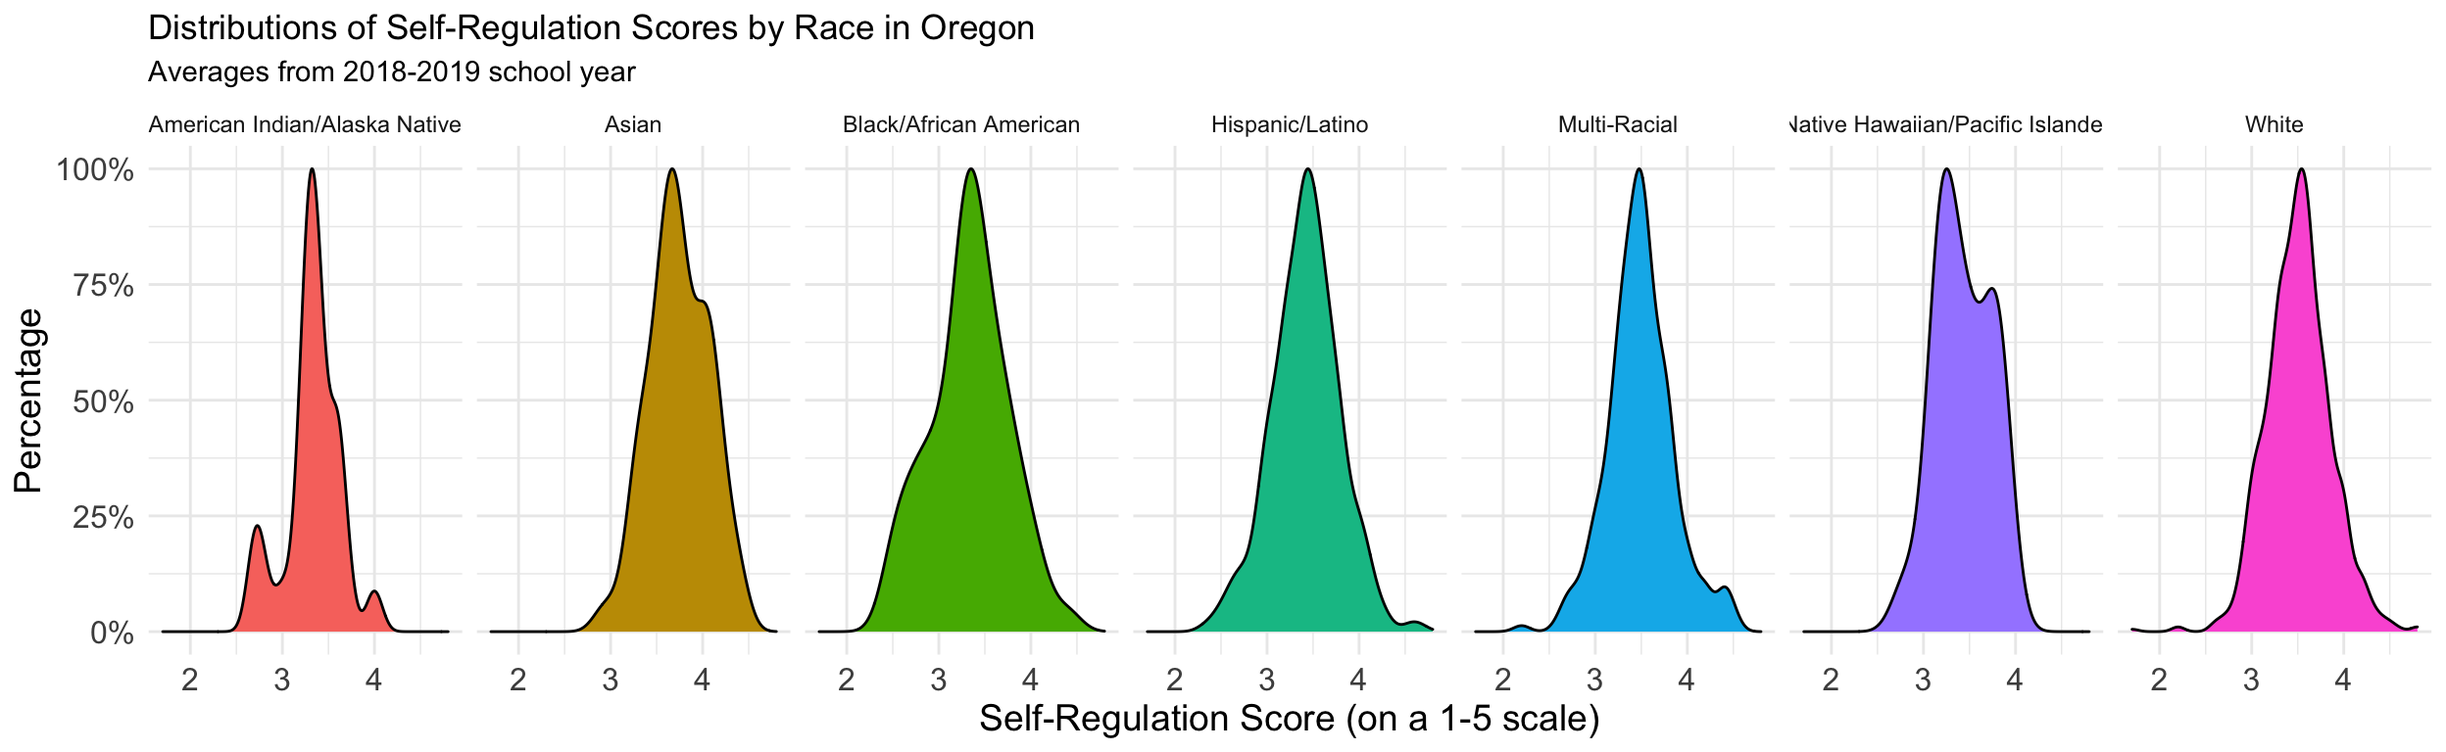
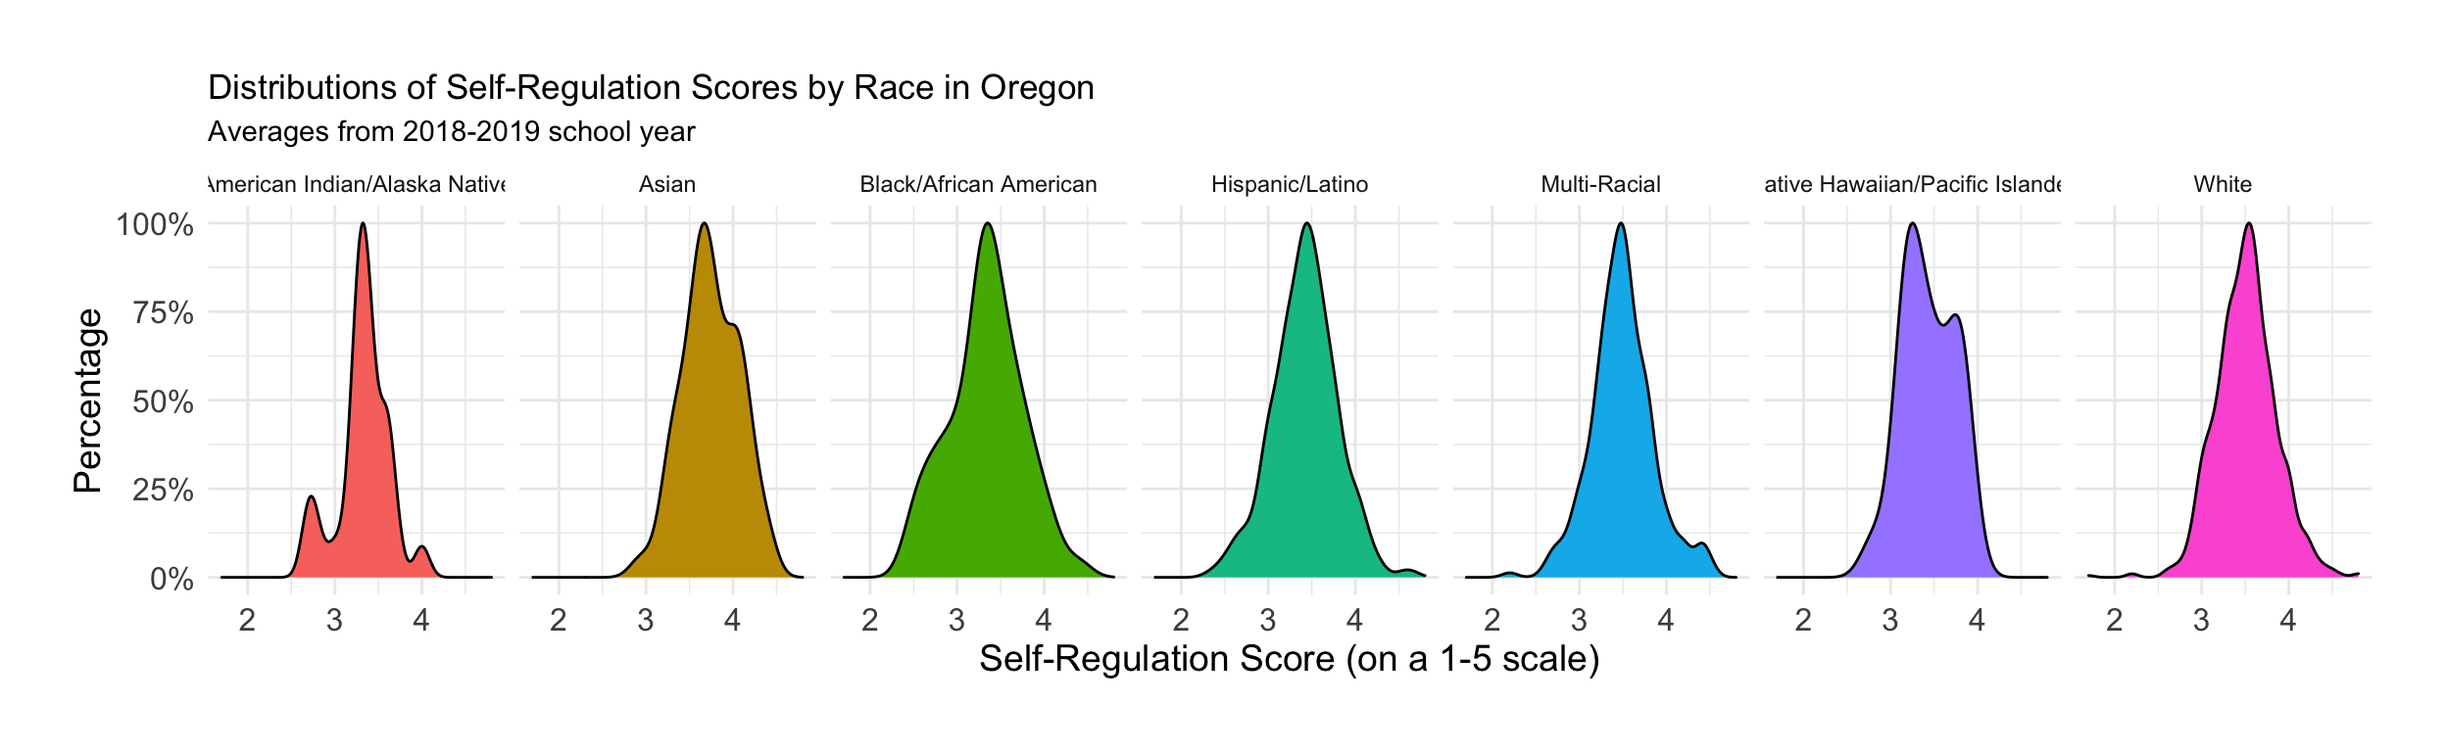
vz2 refining

diff --git a/docs/posts/viz2/index.html b/docs/posts/viz2/index.html
@@ -35,7 +35,7 @@
 <meta property="og:type" content="article"/>
 <meta property="og:description" content="Comparing self-regulation scores by race"/>
 <meta property="og:url" content="https://github.com/jhwrigh23/class_website/posts/viz2/"/>
-<meta property="og:image" content="https://github.com/jhwrigh23/class_website/posts/viz2/viz2_files/figure-html5/unnamed-chunk-5-1.png"/>
+<meta property="og:image" content="https://github.com/jhwrigh23/class_website/posts/viz2/viz2_files/figure-html5/viz2-vers1-1.png"/>
 <meta property="og:image:width" content="1248"/>
 <meta property="og:image:height" content="768"/>
 <meta property="og:locale" content="en_US"/>
@@ -46,7 +46,7 @@
 <meta property="twitter:title" content="Data Visualization Winter 2020: Visualization #2"/>
 <meta property="twitter:description" content="Comparing self-regulation scores by race"/>
 <meta property="twitter:url" content="https://github.com/jhwrigh23/class_website/posts/viz2/"/>
-<meta property="twitter:image" content="https://github.com/jhwrigh23/class_website/posts/viz2/viz2_files/figure-html5/unnamed-chunk-5-1.png"/>
+<meta property="twitter:image" content="https://github.com/jhwrigh23/class_website/posts/viz2/viz2_files/figure-html5/viz2-vers1-1.png"/>
 <meta property="twitter:image:width" content="1248"/>
 <meta property="twitter:image:height" content="768"/>
 
@@ -65,7 +65,7 @@
 <!--/radix_placeholder_rmarkdown_metadata-->
   
   <script type="text/json" id="radix-resource-manifest">
-  {"type":"character","attributes":{},"value":["viz2/bowser-1.9.3/bowser.min.js","viz2/distill-2.2.21/template.v2.js","viz2/figure-html5/viz2-1.png","viz2/figure-html5/viz2-alternative-1.png","viz2/jquery-1.11.3/jquery.min.js","viz2/webcomponents-2.0.0/webcomponents.js","viz2_files/bowser-1.9.3/bowser.min.js","viz2_files/core-js-2.5.3/LICENSE","viz2_files/core-js-2.5.3/package.json","viz2_files/core-js-2.5.3/shim.min.js","viz2_files/distill-2.2.21/template.v2.js","viz2_files/figure-html5/l-page-1.png","viz2_files/figure-html5/unnamed-chunk-2-1.png","viz2_files/figure-html5/unnamed-chunk-3-1.png","viz2_files/figure-html5/unnamed-chunk-4-1.png","viz2_files/figure-html5/unnamed-chunk-5-1.png","viz2_files/figure-html5/viz2-1.png","viz2_files/figure-html5/viz2-alternative-1.png","viz2_files/figure-html5/viz2-alternative-2.png","viz2_files/figure-html5/viz2-vers1-1.png","viz2_files/figure-html5/viz2-vers2-3-4-1.png","viz2_files/figure-html5/viz2-vers2-3-4-2.png","viz2_files/figure-html5/viz2-vers2-3-4-3.png","viz2_files/figure-html5/viz2-vers2-3-4-4.png","viz2_files/figure-html5/viz2-vers5-1.png","viz2_files/figure-html5/viz2-vers6-1.png","viz2_files/figure-html5/viz2-vers7-1.png","viz2_files/figure-html5/viz2-vers8-1.png","viz2_files/figure-html5/viz2-vers9-1.png","viz2_files/figure-html5/vs2-1.png","viz2_files/figure-html5/vs2, l-page-1.png","viz2_files/htmlwidgets-1.5.1/htmlwidgets.js","viz2_files/jquery-1.11.3/jquery.min.js","viz2_files/react-16.12.0/AUTHORS","viz2_files/react-16.12.0/LICENSE.txt","viz2_files/react-16.12.0/react-dom.min.js","viz2_files/react-16.12.0/react.min.js","viz2_files/reactable-binding-0.1.0/reactable.js","viz2_files/reactwidget-1.0.0/react-tools.js","viz2_files/reactwidget-1.0.0/react-tools.js.map","viz2_files/webcomponents-2.0.0/webcomponents.js"]}
+  {"type":"character","attributes":{},"value":["viz2/bowser-1.9.3/bowser.min.js","viz2/distill-2.2.21/template.v2.js","viz2/figure-html5/viz2-1.png","viz2/figure-html5/viz2-alternative-1.png","viz2/jquery-1.11.3/jquery.min.js","viz2/webcomponents-2.0.0/webcomponents.js","viz2_files/bowser-1.9.3/bowser.min.js","viz2_files/core-js-2.5.3/LICENSE","viz2_files/core-js-2.5.3/package.json","viz2_files/core-js-2.5.3/shim.min.js","viz2_files/distill-2.2.21/template.v2.js","viz2_files/figure-html5/l-page-1.png","viz2_files/figure-html5/unnamed-chunk-2-1.png","viz2_files/figure-html5/unnamed-chunk-3-1.png","viz2_files/figure-html5/unnamed-chunk-4-1.png","viz2_files/figure-html5/unnamed-chunk-5-1.png","viz2_files/figure-html5/unnamed-chunk-6-1.png","viz2_files/figure-html5/unnamed-chunk-7-1.png","viz2_files/figure-html5/viz2-1.png","viz2_files/figure-html5/viz2-alternative-1.png","viz2_files/figure-html5/viz2-alternative-2.png","viz2_files/figure-html5/viz2-vers1-1.png","viz2_files/figure-html5/viz2-vers2-3-4-1.png","viz2_files/figure-html5/viz2-vers2-3-4-2.png","viz2_files/figure-html5/viz2-vers2-3-4-3.png","viz2_files/figure-html5/viz2-vers2-3-4-4.png","viz2_files/figure-html5/viz2-vers5-1.png","viz2_files/figure-html5/viz2-vers6-1.png","viz2_files/figure-html5/viz2-vers7-1.png","viz2_files/figure-html5/viz2-vers8-1.png","viz2_files/figure-html5/viz2-vers9-1.png","viz2_files/figure-html5/vs2-1.png","viz2_files/figure-html5/vs2, l-page-1.png","viz2_files/htmlwidgets-1.5.1/htmlwidgets.js","viz2_files/jquery-1.11.3/jquery.min.js","viz2_files/react-16.12.0/AUTHORS","viz2_files/react-16.12.0/LICENSE.txt","viz2_files/react-16.12.0/react-dom.min.js","viz2_files/react-16.12.0/react.min.js","viz2_files/reactable-binding-0.1.0/reactable.js","viz2_files/reactwidget-1.0.0/react-tools.js","viz2_files/reactwidget-1.0.0/react-tools.js.map","viz2_files/webcomponents-2.0.0/webcomponents.js"]}
   </script>
   <!--radix_placeholder_navigation_in_header-->
 
@@ -1344,7 +1344,8 @@ library(rio)
 library(here)
 library(janitor)
 library(gt)
-library(ggrepel)</code></pre>
+library(ggrepel)
+library(ggtext)</code></pre>
 </div>
 <div class="layout-chunk" data-layout="l-body">
 
@@ -1362,43 +1363,48 @@ library(ggrepel)</code></pre>
 </div>
 <p>To explore the data further, I plotted distributions in a couple of difference ways.</p>
 <div class="layout-chunk" data-layout="l-body">
-<p><img src="viz2_files/figure-html5/viz2-vers2-3-4-1.png" width="624" /><img src="viz2_files/figure-html5/viz2-vers2-3-4-2.png" width="624" /><img src="viz2_files/figure-html5/viz2-vers2-3-4-3.png" width="624" /></p>
+<p><img src="viz2_files/figure-html5/viz2-vers2-3-4-1.png" width="624" /><img src="viz2_files/figure-html5/viz2-vers2-3-4-2.png" width="624" /></p>
 </div>
 <div class="layout-chunk" data-layout="l-body">
 <p><img src="viz2_files/figure-html5/unnamed-chunk-2-1.png" width="1248" /></p>
 </div>
-<p>Change the y-axis to proportion, make y-axis labels a pergentage:</p>
-<div class="layout-chunk" data-layout="l-page">
+<p>I refined what I thought was the most effective distribution plot further by changing the y-axis to proportion, making y-axis labels percentages, and making the plot larger:</p>
+<div class="layout-chunk" data-layout="l-screen-inset">
 <p><img src="viz2_files/figure-html5/vs2-1.png" width="1248" /></p>
 </div>
-<p>This gives us an overall sense of distribution of scores by race. However, to put these numbers in context, it is important to know that some student groups are represented much more strongly than others.</p>
+<p>This gives us an overall sense of distribution of scores by race. However, to put these numbers in context, it is important to know that some student groups are represented much more strongly than others. A quick plot of totals by student race can tell us this:</p>
 <div class="layout-chunk" data-layout="l-body">
 
 </div>
 <div class="layout-chunk" data-layout="l-body">
-<div id="htmlwidget-fc823078eccc45c3ddf4" class="reactable html-widget" style="width:auto;height:auto;"></div>
-<script type="application/json" data-for="htmlwidget-fc823078eccc45c3ddf4">{"x":{"tag":{"name":"Reactable","attribs":{"data":{"Race":["American Indian/Alaska Native","Asian","Black/African American","Hispanic/Latino","Multi-Racial","Native Hawaiian/Pacific Islander","White"],"Total":[26,93,61,542,258,22,867]},"columns":[{"accessor":"Race","name":"Race","type":"character"},{"accessor":"Total","name":"Total","type":"numeric"}],"defaultPageSize":10,"paginationType":"numbers","showPageInfo":true,"minRows":1,"dataKey":"e79b7ed91e7bd07a7908c99bd852f368"},"children":[]},"class":"reactR_markup"},"evals":[],"jsHooks":[]}</script>
+<div id="htmlwidget-b8cbbeaffe78271daf5a" class="reactable html-widget" style="width:auto;height:auto;"></div>
+<script type="application/json" data-for="htmlwidget-b8cbbeaffe78271daf5a">{"x":{"tag":{"name":"Reactable","attribs":{"data":{"Race":["American Indian/Alaska Native","Asian","Black/African American","Hispanic/Latino","Multi-Racial","Native Hawaiian/Pacific Islander","White"],"Total":[26,93,61,542,258,22,867]},"columns":[{"accessor":"Race","name":"Race","type":"character"},{"accessor":"Total","name":"Total","type":"numeric"}],"defaultPageSize":10,"paginationType":"numbers","showPageInfo":true,"minRows":1,"dataKey":"e79b7ed91e7bd07a7908c99bd852f368"},"children":[]},"class":"reactR_markup"},"evals":[],"jsHooks":[]}</script>
 </div>
-<p>Given that White and Hispanic/Latino students make up a large proportion of the student population in this sample, I decided to look at difference in self-regulation scores between these groups.</p>
+<p>Given that White and Hispanic/Latino students make up a large proportion of the student population in this sample, I decided to look at difference in self-regulation scores between these groups. Like the other visualizations, I wanted to look at these differences across counties to see if there are particular counties for whom one group of students is scoring much higher or lower than the other.</p>
+<p>First, I calculated the difference by subtracting the average Hispanic/Latino scores from the average White scores for each county and made an initial plot of the results:</p>
 <div class="layout-chunk" data-layout="l-body">
 <p><img src="viz2_files/figure-html5/viz2-1.png" width="624" /></p>
 </div>
-<p>Refining the plot to highlight counties in which there is the largest score difference between White and Hispanic/Latino students.</p>
+<p>Of course, the first step for refining this is the reorder so that it’s easier to see which counties show the greatest discrepancy. I used <code>fct_reorder</code> and then added <code>gghighlight</code> conditions to emphasize counties in which the difference between the two groups was greater than .25.</p>
 <div class="layout-chunk" data-layout="l-body">
 <p><img src="viz2_files/figure-html5/viz2-vers6-1.png" width="624" /></p>
 </div>
-<p>How can this be improved?</p>
+<p>But this doesn’t tell us which counties show White students scoring higher than Hispanic/Latino, and which show the opposite trend. I thought maybe a legend could help with this.</p>
 <div class="layout-chunk" data-layout="l-body">
 <p><img src="viz2_files/figure-html5/viz2-vers7-1.png" width="624" /></p>
 </div>
-<p>That’s easier to read, but it’s still hard to tell what it means. I needed to find a way to communicate that the blue represents White student scores being higher than Hispanic, and the red represents Hispanic student scores being higher than White.</p>
+<p>It’s still hard to tell what the legend means, so I tried this another way:</p>
 <div class="layout-chunk" data-layout="l-body">
-<p><img src="viz2_files/figure-html5/viz2-vers8-1.png" width="624" /></p>
+<p><img src="viz2_files/figure-html5/unnamed-chunk-5-1.png" width="624" /></p>
 </div>
+<p>That’s getting closer, but the legend still asks too much of the viewer to understand the plot. I tried reducing the cognitive load another way, and adjusted the theme settings to clean up the plot further:</p>
 <div class="layout-chunk" data-layout="l-body">
-<p><img src="viz2_files/figure-html5/unnamed-chunk-5-1.png" width="624" data-distill-preview=1 /></p>
+<p><img src="viz2_files/figure-html5/unnamed-chunk-6-1.png" width="624" /></p>
 </div>
-<p>This is getting pretty close! I’d still like to change the caption to reduce cognitive load - make it super clear what data are depicted.</p>
+<p>I think that’s much better in terms of cognitive load. Some final tidying up:</p>
+<div class="layout-chunk" data-layout="l-body">
+<p><img src="viz2_files/figure-html5/unnamed-chunk-7-1.png" width="624" /></p>
+</div>
 <!--radix_placeholder_article_footer-->
 <!--/radix_placeholder_article_footer-->
 </div>

diff --git a/_posts/viz2/viz2.html b/_posts/viz2/viz2.html
@@ -49,7 +49,7 @@
   <!--/radix_placeholder_rmarkdown_metadata-->
   
   <script type="text/json" id="radix-resource-manifest">
-  {"type":"character","attributes":{},"value":["viz2/bowser-1.9.3/bowser.min.js","viz2/distill-2.2.21/template.v2.js","viz2/figure-html5/viz2-1.png","viz2/figure-html5/viz2-alternative-1.png","viz2/jquery-1.11.3/jquery.min.js","viz2/webcomponents-2.0.0/webcomponents.js","viz2_files/bowser-1.9.3/bowser.min.js","viz2_files/core-js-2.5.3/LICENSE","viz2_files/core-js-2.5.3/package.json","viz2_files/core-js-2.5.3/shim.min.js","viz2_files/distill-2.2.21/template.v2.js","viz2_files/figure-html5/l-page-1.png","viz2_files/figure-html5/unnamed-chunk-2-1.png","viz2_files/figure-html5/unnamed-chunk-3-1.png","viz2_files/figure-html5/unnamed-chunk-4-1.png","viz2_files/figure-html5/unnamed-chunk-5-1.png","viz2_files/figure-html5/viz2-1.png","viz2_files/figure-html5/viz2-alternative-1.png","viz2_files/figure-html5/viz2-alternative-2.png","viz2_files/figure-html5/viz2-vers1-1.png","viz2_files/figure-html5/viz2-vers2-3-4-1.png","viz2_files/figure-html5/viz2-vers2-3-4-2.png","viz2_files/figure-html5/viz2-vers2-3-4-3.png","viz2_files/figure-html5/viz2-vers2-3-4-4.png","viz2_files/figure-html5/viz2-vers5-1.png","viz2_files/figure-html5/viz2-vers6-1.png","viz2_files/figure-html5/viz2-vers7-1.png","viz2_files/figure-html5/viz2-vers8-1.png","viz2_files/figure-html5/viz2-vers9-1.png","viz2_files/figure-html5/vs2-1.png","viz2_files/figure-html5/vs2, l-page-1.png","viz2_files/htmlwidgets-1.5.1/htmlwidgets.js","viz2_files/jquery-1.11.3/jquery.min.js","viz2_files/react-16.12.0/AUTHORS","viz2_files/react-16.12.0/LICENSE.txt","viz2_files/react-16.12.0/react-dom.min.js","viz2_files/react-16.12.0/react.min.js","viz2_files/reactable-binding-0.1.0/reactable.js","viz2_files/reactwidget-1.0.0/react-tools.js","viz2_files/reactwidget-1.0.0/react-tools.js.map","viz2_files/webcomponents-2.0.0/webcomponents.js"]}
+  {"type":"character","attributes":{},"value":["viz2/bowser-1.9.3/bowser.min.js","viz2/distill-2.2.21/template.v2.js","viz2/figure-html5/viz2-1.png","viz2/figure-html5/viz2-alternative-1.png","viz2/jquery-1.11.3/jquery.min.js","viz2/webcomponents-2.0.0/webcomponents.js","viz2_files/bowser-1.9.3/bowser.min.js","viz2_files/core-js-2.5.3/LICENSE","viz2_files/core-js-2.5.3/package.json","viz2_files/core-js-2.5.3/shim.min.js","viz2_files/distill-2.2.21/template.v2.js","viz2_files/figure-html5/l-page-1.png","viz2_files/figure-html5/unnamed-chunk-2-1.png","viz2_files/figure-html5/unnamed-chunk-3-1.png","viz2_files/figure-html5/unnamed-chunk-4-1.png","viz2_files/figure-html5/unnamed-chunk-5-1.png","viz2_files/figure-html5/unnamed-chunk-6-1.png","viz2_files/figure-html5/unnamed-chunk-7-1.png","viz2_files/figure-html5/viz2-1.png","viz2_files/figure-html5/viz2-alternative-1.png","viz2_files/figure-html5/viz2-alternative-2.png","viz2_files/figure-html5/viz2-vers1-1.png","viz2_files/figure-html5/viz2-vers2-3-4-1.png","viz2_files/figure-html5/viz2-vers2-3-4-2.png","viz2_files/figure-html5/viz2-vers2-3-4-3.png","viz2_files/figure-html5/viz2-vers2-3-4-4.png","viz2_files/figure-html5/viz2-vers5-1.png","viz2_files/figure-html5/viz2-vers6-1.png","viz2_files/figure-html5/viz2-vers7-1.png","viz2_files/figure-html5/viz2-vers8-1.png","viz2_files/figure-html5/viz2-vers9-1.png","viz2_files/figure-html5/vs2-1.png","viz2_files/figure-html5/vs2, l-page-1.png","viz2_files/htmlwidgets-1.5.1/htmlwidgets.js","viz2_files/jquery-1.11.3/jquery.min.js","viz2_files/react-16.12.0/AUTHORS","viz2_files/react-16.12.0/LICENSE.txt","viz2_files/react-16.12.0/react-dom.min.js","viz2_files/react-16.12.0/react.min.js","viz2_files/reactable-binding-0.1.0/reactable.js","viz2_files/reactwidget-1.0.0/react-tools.js","viz2_files/reactwidget-1.0.0/react-tools.js.map","viz2_files/webcomponents-2.0.0/webcomponents.js"]}
   </script>
   <!--radix_placeholder_navigation_in_header-->
   <!--/radix_placeholder_navigation_in_header-->
@@ -976,7 +976,8 @@ library(rio)
 library(here)
 library(janitor)
 library(gt)
-library(ggrepel)</code></pre>
+library(ggrepel)
+library(ggtext)</code></pre>
 </div>
 <div class="layout-chunk" data-layout="l-body">
 
@@ -994,43 +995,48 @@ library(ggrepel)</code></pre>
 </div>
 <p>To explore the data further, I plotted distributions in a couple of difference ways.</p>
 <div class="layout-chunk" data-layout="l-body">
-<p><img src="viz2_files/figure-html5/viz2-vers2-3-4-1.png" width="624" /><img src="viz2_files/figure-html5/viz2-vers2-3-4-2.png" width="624" /><img src="viz2_files/figure-html5/viz2-vers2-3-4-3.png" width="624" /></p>
+<p><img src="viz2_files/figure-html5/viz2-vers2-3-4-1.png" width="624" /><img src="viz2_files/figure-html5/viz2-vers2-3-4-2.png" width="624" /></p>
 </div>
 <div class="layout-chunk" data-layout="l-body">
 <p><img src="viz2_files/figure-html5/unnamed-chunk-2-1.png" width="1248" /></p>
 </div>
-<p>Change the y-axis to proportion, make y-axis labels a pergentage:</p>
-<div class="layout-chunk" data-layout="l-page">
+<p>I refined what I thought was the most effective distribution plot further by changing the y-axis to proportion, making y-axis labels percentages, and making the plot larger:</p>
+<div class="layout-chunk" data-layout="l-screen-inset">
 <p><img src="viz2_files/figure-html5/vs2-1.png" width="1248" /></p>
 </div>
-<p>This gives us an overall sense of distribution of scores by race. However, to put these numbers in context, it is important to know that some student groups are represented much more strongly than others.</p>
+<p>This gives us an overall sense of distribution of scores by race. However, to put these numbers in context, it is important to know that some student groups are represented much more strongly than others. A quick plot of totals by student race can tell us this:</p>
 <div class="layout-chunk" data-layout="l-body">
 
 </div>
 <div class="layout-chunk" data-layout="l-body">
-<div id="htmlwidget-fc823078eccc45c3ddf4" class="reactable html-widget" style="width:auto;height:auto;"></div>
-<script type="application/json" data-for="htmlwidget-fc823078eccc45c3ddf4">{"x":{"tag":{"name":"Reactable","attribs":{"data":{"Race":["American Indian/Alaska Native","Asian","Black/African American","Hispanic/Latino","Multi-Racial","Native Hawaiian/Pacific Islander","White"],"Total":[26,93,61,542,258,22,867]},"columns":[{"accessor":"Race","name":"Race","type":"character"},{"accessor":"Total","name":"Total","type":"numeric"}],"defaultPageSize":10,"paginationType":"numbers","showPageInfo":true,"minRows":1,"dataKey":"e79b7ed91e7bd07a7908c99bd852f368"},"children":[]},"class":"reactR_markup"},"evals":[],"jsHooks":[]}</script>
+<div id="htmlwidget-b8cbbeaffe78271daf5a" class="reactable html-widget" style="width:auto;height:auto;"></div>
+<script type="application/json" data-for="htmlwidget-b8cbbeaffe78271daf5a">{"x":{"tag":{"name":"Reactable","attribs":{"data":{"Race":["American Indian/Alaska Native","Asian","Black/African American","Hispanic/Latino","Multi-Racial","Native Hawaiian/Pacific Islander","White"],"Total":[26,93,61,542,258,22,867]},"columns":[{"accessor":"Race","name":"Race","type":"character"},{"accessor":"Total","name":"Total","type":"numeric"}],"defaultPageSize":10,"paginationType":"numbers","showPageInfo":true,"minRows":1,"dataKey":"e79b7ed91e7bd07a7908c99bd852f368"},"children":[]},"class":"reactR_markup"},"evals":[],"jsHooks":[]}</script>
 </div>
-<p>Given that White and Hispanic/Latino students make up a large proportion of the student population in this sample, I decided to look at difference in self-regulation scores between these groups.</p>
+<p>Given that White and Hispanic/Latino students make up a large proportion of the student population in this sample, I decided to look at difference in self-regulation scores between these groups. Like the other visualizations, I wanted to look at these differences across counties to see if there are particular counties for whom one group of students is scoring much higher or lower than the other.</p>
+<p>First, I calculated the difference by subtracting the average Hispanic/Latino scores from the average White scores for each county and made an initial plot of the results:</p>
 <div class="layout-chunk" data-layout="l-body">
 <p><img src="viz2_files/figure-html5/viz2-1.png" width="624" /></p>
 </div>
-<p>Refining the plot to highlight counties in which there is the largest score difference between White and Hispanic/Latino students.</p>
+<p>Of course, the first step for refining this is the reorder so that it’s easier to see which counties show the greatest discrepancy. I used <code>fct_reorder</code> and then added <code>gghighlight</code> conditions to emphasize counties in which the difference between the two groups was greater than .25.</p>
 <div class="layout-chunk" data-layout="l-body">
 <p><img src="viz2_files/figure-html5/viz2-vers6-1.png" width="624" /></p>
 </div>
-<p>How can this be improved?</p>
+<p>But this doesn’t tell us which counties show White students scoring higher than Hispanic/Latino, and which show the opposite trend. I thought maybe a legend could help with this.</p>
 <div class="layout-chunk" data-layout="l-body">
 <p><img src="viz2_files/figure-html5/viz2-vers7-1.png" width="624" /></p>
 </div>
-<p>That’s easier to read, but it’s still hard to tell what it means. I needed to find a way to communicate that the blue represents White student scores being higher than Hispanic, and the red represents Hispanic student scores being higher than White.</p>
+<p>It’s still hard to tell what the legend means, so I tried this another way:</p>
 <div class="layout-chunk" data-layout="l-body">
-<p><img src="viz2_files/figure-html5/viz2-vers8-1.png" width="624" /></p>
+<p><img src="viz2_files/figure-html5/unnamed-chunk-5-1.png" width="624" /></p>
 </div>
+<p>That’s getting closer, but the legend still asks too much of the viewer to understand the plot. I tried reducing the cognitive load another way, and adjusted the theme settings to clean up the plot further:</p>
 <div class="layout-chunk" data-layout="l-body">
-<p><img src="viz2_files/figure-html5/unnamed-chunk-5-1.png" width="624" data-distill-preview=1 /></p>
+<p><img src="viz2_files/figure-html5/unnamed-chunk-6-1.png" width="624" /></p>
 </div>
-<p>This is getting pretty close! I’d still like to change the caption to reduce cognitive load - make it super clear what data are depicted.</p>
+<p>I think that’s much better in terms of cognitive load. Some final tidying up:</p>
+<div class="layout-chunk" data-layout="l-body">
+<p><img src="viz2_files/figure-html5/unnamed-chunk-7-1.png" width="624" /></p>
+</div>
 <!--radix_placeholder_article_footer-->
 <!--/radix_placeholder_article_footer-->
 </div>

diff --git a/docs/index.html b/docs/index.html
@@ -1632,7 +1632,7 @@ function init_posts_list() {
 <div class="publishedDate">March 9, 2020</div>
 </div>
 <div class="thumbnail">
-<img data-src="posts/viz2/viz2_files/figure-html5/unnamed-chunk-5-1.png"/>
+<img data-src="posts/viz2/viz2_files/figure-html5/viz2-vers1-1.png"/>
 </div>
 <div class="description">
 <h2>Visualization #2</h2>
